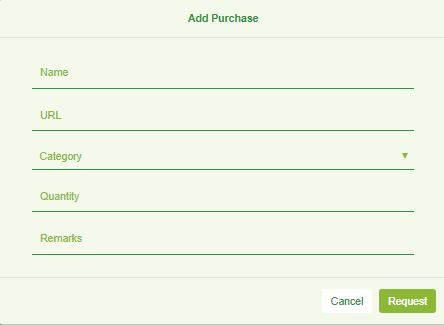
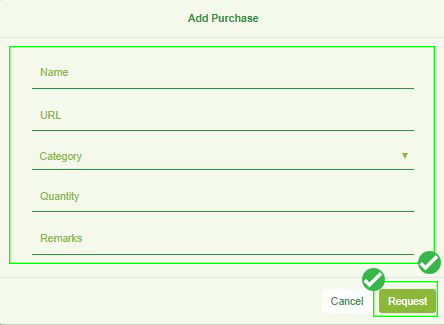
user guide

Changed region(s): [[0.0293, 0.1231, 0.9955, 0.9846], [0.0, 0.1538, 0.0293, 0.8]]

diff --git a/user/guide.php b/user/guide.php
@@ -1,0 +1,191 @@
+<?php
+session_start();
+if ($_SESSION['user_id'] == "")
+{
+    header('location: ../login.php');
+    exit();
+}
+?>
+<!DOCTYPE html>
+<html data-ng-app="myApp">
+    <head>
+        <title>LWE Buy</title>
+        <meta charset="utf-8" />
+        <meta name="viewport" content="width=device-width, initialscale=1.0"/>
+        <!-- Bootstrap -->
+        <link rel="stylesheet" href="https://maxcdn.bootstrapcdn.com/bootstrap/3.3.7/css/bootstrap.min.css">
+        <script src="https://ajax.googleapis.com/ajax/libs/jquery/3.2.1/jquery.min.js"></script>
+        <script src="https://maxcdn.bootstrapcdn.com/bootstrap/3.3.7/js/bootstrap.min.js"></script>
+
+        <!--stylesheet-->
+        <link href="../frameworks/css/style.css" rel="stylesheet"/>
+        <!-- HTML5 Shim and Respond.js IE8 support of HTML5 elements and media queries -->
+        <!-- WARNING: Respond.js doesn't work if you view the page via file:// -->
+        <!--[if lt IE 9]>
+        <script src="js/html5shiv.js"></script>
+        <script src="js/respond.min.js"></script>
+        <![endif]-->
+        
+    </head>
+
+	<body class="linearbg" onload="timeouttimer()">
+	<div class="row" id="usernav">
+            <?php include_once "userbar.php" ?>
+        </div>
+        <div class="row loginrow1"> 
+        </div>
+        
+        <div class="row">
+            <div class="col-xs-12 col-md-8 col-lg-8 col-md-push-2 col-lg-push-2 contact">
+                <h1 class="bigh1 center hidden-xs hidden-sm">User Guide</h1>
+                <h1 class="smh1 center hidden-lg hidden-md">User Guide</h1>
+                
+             
+                
+				<p class="subtitle">Follow the step below</p>
+             
+  
+                <p><button class="btn btnservice left" type="button" data-toggle="collapse" data-target="#purchase"><span class="glyphicon glyphicon-triangle-bottom"></span> &emsp; How to Purchase</button></p> 
+                <div id="purchase" class="collapse serviceinfo">
+                    <table class="servicetbl">
+                        <tr>
+                            <td class="imgcol"><img src="../resources/img/guide/1purchase.JPG" alt="international express" width="100%" /></td>
+                            <td>
+                                <p class="coltitle">Step 1:</p>
+                                <p>Click 'Purchase' </p>
+                            </td>
+                        </tr>
+						<tr>
+                            <td class="imgcol"><img src="../resources/img/guide/3copyurl.JPG" alt="international parcel" width="100%" /></td>
+                            <td>
+							<p class="coltitle">Step 2:</p>
+                                <p>Copy item url</p>
+                            </td>
+                        </tr>
+                        <tr>
+                            <td class="imgcol"><img src="../resources/img/guide/2addpurchase.JPG" alt="international parcel" width="100%" /></td>
+                            <td>
+							<p class="coltitle">Step 3:</p>
+                                <p>Add the url and click 'Request'</p>
+                            </td>
+                        </tr>
+                    </table>
+                </div>
+          
+		        <p><button class="btn btnservice left" type="button" data-toggle="collapse" data-target="#inventory"><span class="glyphicon glyphicon-triangle-bottom"></span> &emsp; How to add inventory</button></p> 
+                <div id="inventory" class="collapse serviceinfo">
+                    <table class="servicetbl">
+                        <tr>
+                            <td class="imgcol"><img src="../resources/img/guide/inventory.JPG" alt="international express" width="100%" /></td>
+                            <td>
+                                <p class="coltitle">Step 1:</p>
+                                <p>Click 'Inventory'</p>
+                            </td>
+                        </tr>
+                        <tr>
+                            <td class="imgcol"><img src="../resources/img/guide/trackingcode.JPG" alt="international parcel" width="100%" /></td>
+                            <td>
+                                <p class="coltitle">Step 2:</p>
+								<p>Copy order code</p>
+                            </td>
+                        </tr>
+                        <tr>
+                            <td class="imgcol"><img src="../resources/img/guide/3payment.JPG" alt="postal packets" width="100%" /></td>
+                            <td>
+                                <p class="coltitle">Step 3:</p>
+                                <p>Add the code and click 'Request'</p>
+                            </td>
+                        </tr>
+                    </table>
+                </div>
+				
+				<p><button class="btn btnservice left" type="button" data-toggle="collapse" data-target="#shipping"><span class="glyphicon glyphicon-triangle-bottom"></span> &emsp; Shipping</button></p> 
+                <div id="shipping" class="collapse serviceinfo">
+                    <table class="servicetbl">
+                        <tr>
+                            <td class="imgcol"><img src="../resources/img/guide/ship.JPG" alt="international express" width="100%" /></td>
+                            <td>
+                                <p class="coltitle">Step 1:</p>
+                                <p>Click 'Shipping'</p>
+                            </td>
+                        </tr>
+                        <tr>
+                            <td class="imgcol"><img src="../resources/img/guide/2addpurchase.JPG" alt="international parcel" width="100%" /></td>
+                            <td>
+							<p class="coltitle">Step 2:</p>
+                                <p>Tick item, and click 'shipping'</p>
+                            </td>
+                        </tr>
+                    </table>
+                </div>
+               
+			   	<p><button class="btn btnservice left" type="button" data-toggle="collapse" data-target="#paymentcredit"><span class="glyphicon glyphicon-triangle-bottom"></span> &emsp; Payment(credit)</button></p> 
+                <div id="paymentcredit" class="collapse serviceinfo">
+                    <table class="servicetbl">
+                        <tr>
+                            <td class="imgcol"><img src="../resources/img/guide/pay.JPG" alt="international express" width="100%" /></td>
+                            <td>
+                                <p class="coltitle">Step 1:</p>
+                                <p>Tick item to pay, and click 'Pay'</p>
+                            </td>
+                        </tr>
+                        <tr>
+                            <td class="imgcol"><img src="../resources/img/guide/credit.JPG" alt="international parcel" width="100%" /></td>
+                            <td>
+							 <p class="coltitle">Step 2:</p>
+                                <p>Choose Credit, and click 'pay' </p>
+                            </td>
+                        </tr>
+                    </table>
+					</div>
+				
+				<p><button class="btn btnservice left" type="button" data-toggle="collapse" data-target="#paymentmolpay"><span class="glyphicon glyphicon-triangle-bottom"></span> &emsp; Payment(molpay)</button></p> 
+                <div id="paymentmolpay" class="collapse serviceinfo">
+                    <table class="servicetbl">
+                        <tr>
+                            <td class="imgcol"><img src="../resources/img/guide/pay.JPG" alt="international express" width="100%" /></td>
+                            <td>
+                                <p class="coltitle">Step 1:</p>
+                                <p>Tick item to pay, and click 'Pay'</p>
+                            </td>
+                        </tr>
+                        <tr>
+                            <td class="imgcol"><img src="../resources/img/guide/molpay.JPG" alt="international parcel" width="100%" /></td>
+                            <td>
+							 <p class="coltitle">Step 2:</p>
+                                <p>Choose Molpay, and click 'pay now' </p>
+                            </td>
+                        </tr>
+						<tr>
+                            <td class="imgcol"><img src="../resources/img/guide/molpay2.JPG" alt="international parcel" width="100%" /></td>
+                            <td>
+							 <p class="coltitle">Step 3:</p>
+                                <p>Fill bank details, and click 'pay now' </p>
+                            </td>
+                        </tr>
+                    </table>
+					</div>
+               
+			   	<p><button class="btn btnservice left" type="button" data-toggle="collapse" data-target="#paymentreceipt"><span class="glyphicon glyphicon-triangle-bottom"></span> &emsp; Payment(transaction)</button></p> 
+                <div id="paymentreceipt" class="collapse serviceinfo">
+                    <table class="servicetbl">
+                        <tr>
+                            <td class="imgcol"><img src="../resources/img/guide/pay.JPG" alt="international express" width="100%" /></td>
+                            <td>
+                                <p class="coltitle">Step 1:</p>
+                               <p>Tick item to pay, and click 'Pay'</p>
+                            </td>
+                        </tr>
+                        <tr>
+                            <td class="imgcol"><img src="../resources/img/guide/receipt.JPG" alt="international parcel" width="100%" /></td>
+                            <td>
+                                <p>Upload the receipt, and click 'Submit'</p>
+                            </td>
+                        </tr>
+                    </table>
+					</div>
+			   </div>
+    
+            </div>
+    </body>
+</html>
